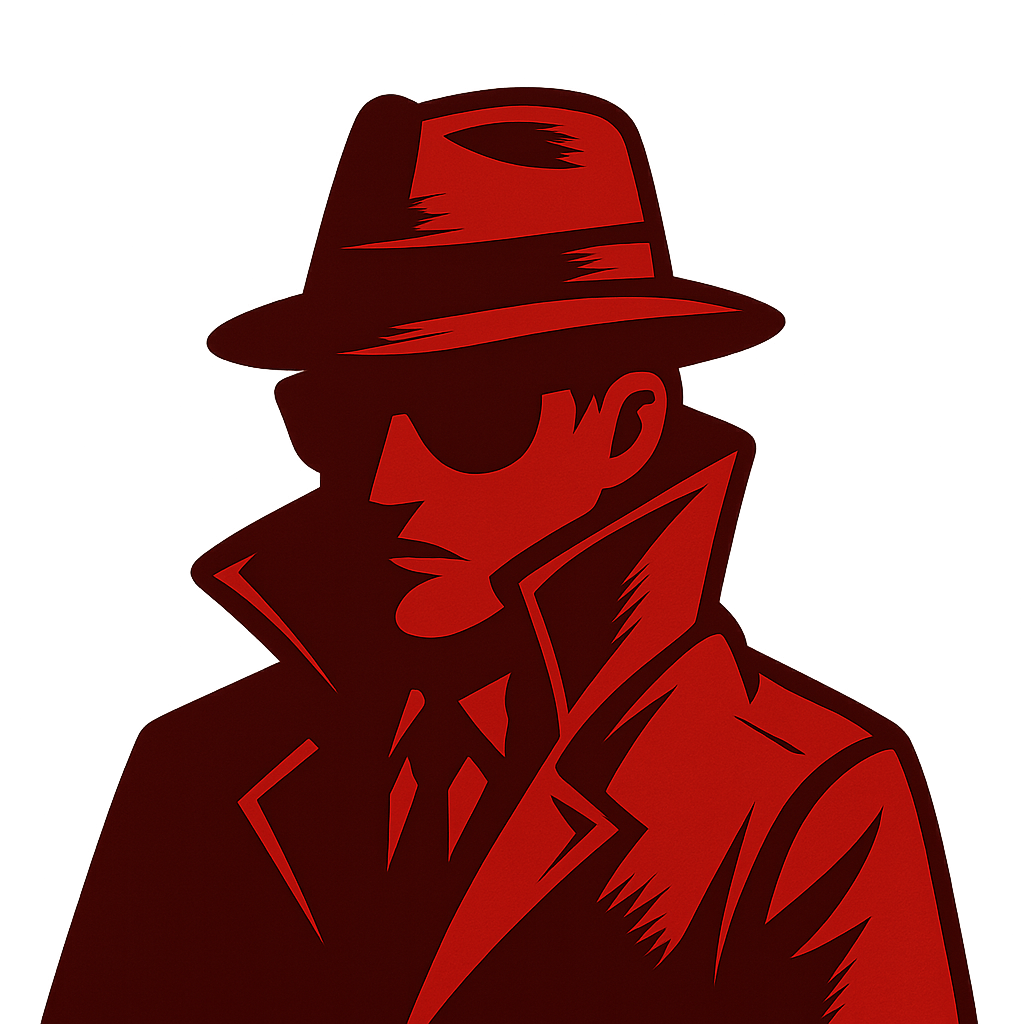
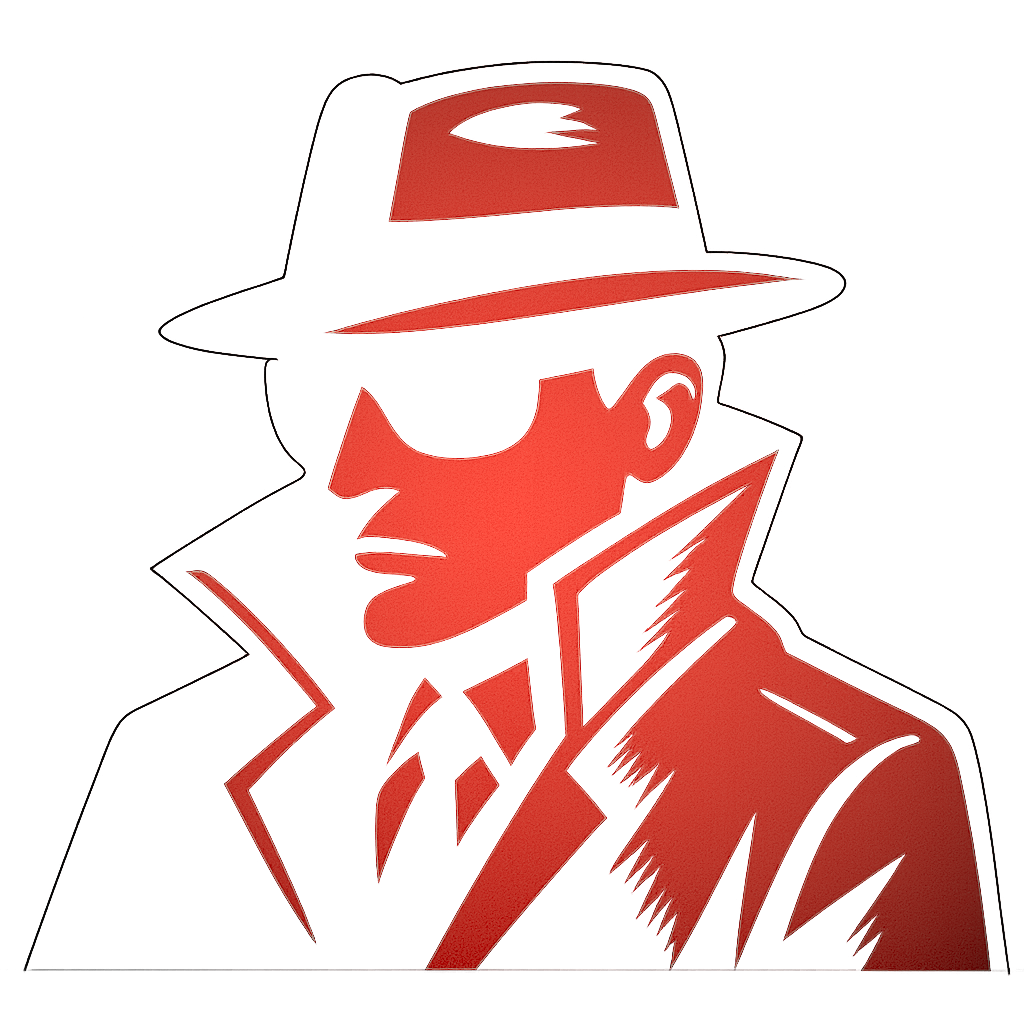
tweak

diff --git a/src/styles/Textbox.css b/src/styles/Textbox.css
@@ -1,9 +1,9 @@
-:root {
+/* :root {
   --bg: linear-gradient(to right, #E4080A, black, black, black, #E4080A);
   --input-bg: #ffa0000d;
   --border-focus: #E4080A;
   --label: #888;
-}
+} */
 
 .input-group {
   position: relative;
@@ -41,7 +41,7 @@
 
 .input-group input:focus,
 .input-group textarea:focus {
-  border-color: var(--border-focus);
+  border-color: var(--accent);
   background: var(--elevated);
 }
 